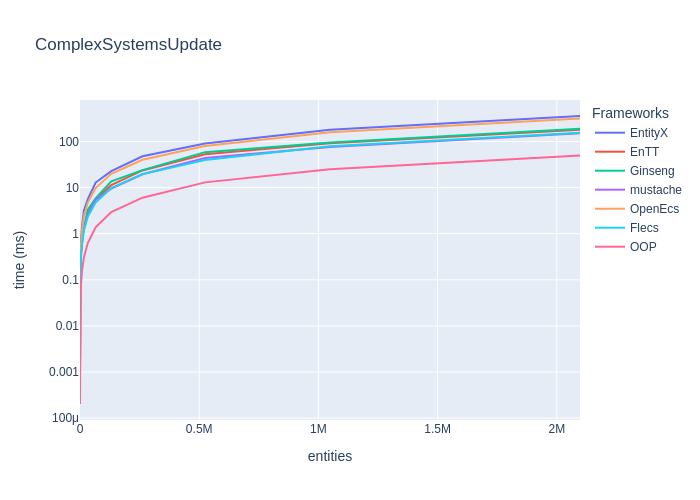
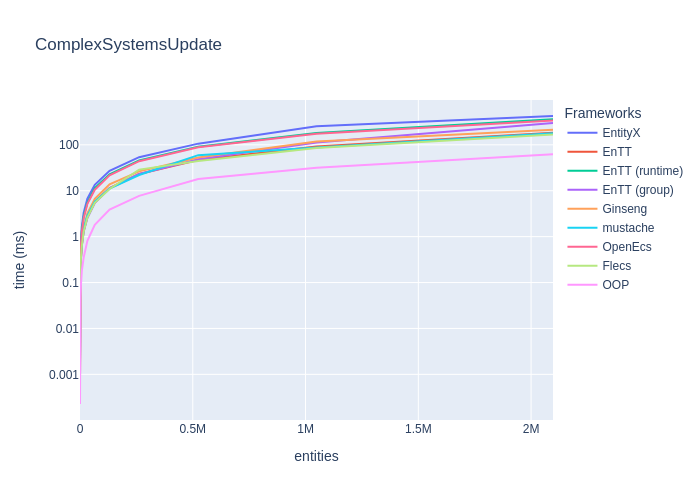
feat: update results and README.md

diff --git a/benchmark/benchmarks/entt-more/EnttRuntimeBenchmark.cpp b/benchmark/benchmarks/entt-more/EnttRuntimeBenchmark.cpp
@@ -1,12 +1,11 @@
-#include "EnttBenchmark.h"
+#include "EnttRuntimeBenchmark.h"
 
-static ecs::benchmarks::entt::EnttBenchmark entt_benchmark({
+static ecs::benchmarks::entt::EnttRuntimeBenchmark entt_runtime_benchmark({
                                                                    .add_more_complex_system = true,
                                                                    .version = ENTT_VERSION
                                                            });
 
-
 static void BM_entt_ComplexSystemsUpdate(benchmark::State &state) {
-    entt_benchmark.BM_SystemsUpdate(state);
+    entt_runtime_benchmark.BM_SystemsUpdate(state);
 }
 BENCHMARK(BM_entt_ComplexSystemsUpdate)->Apply(ecs::benchmarks::base::BEDefaultArguments);

diff --git a/benchmark/benchmarks/entt-more/EnttGroupBenchmark.cpp b/benchmark/benchmarks/entt-more/EnttGroupBenchmark.cpp
@@ -1,12 +1,11 @@
-#include "EnttBenchmark.h"
+#include "EnttGroupBenchmark.h"
 
-static ecs::benchmarks::entt::EnttBenchmark entt_benchmark({
+static ecs::benchmarks::entt::EnttGroupBenchmark entt_group_benchmark({
                                                                    .add_more_complex_system = true,
                                                                    .version = ENTT_VERSION
                                                            });
 
-
 static void BM_entt_ComplexSystemsUpdate(benchmark::State &state) {
-    entt_benchmark.BM_SystemsUpdate(state);
+    entt_group_benchmark.BM_SystemsUpdate(state);
 }
 BENCHMARK(BM_entt_ComplexSystemsUpdate)->Apply(ecs::benchmarks::base::BEDefaultArguments);

diff --git a/benchmark/benchmarks/mustache-more/MustacheBenchmark.cpp b/benchmark/benchmarks/mustache-more/MustacheBenchmark.cpp
@@ -2,7 +2,7 @@
 
 static ecs::benchmarks::mustache::MustacheBenchmark mustache_benchmark({
                                                                                .add_more_complex_system = true,
-                                                                               .version{},
+                                                                               .version = std::nullopt,
                                                                        });
 
 static void BM_mustache_ComplexSystemsUpdate(benchmark::State &state) {

diff --git a/benchmark/benchmarks/ginseng-more/GinsengBenchmark.cpp b/benchmark/benchmarks/ginseng-more/GinsengBenchmark.cpp
@@ -2,7 +2,7 @@
 
 static ecs::benchmarks::ginseng::GinsengBenchmark ginseng_benchmark({
                                                                             .add_more_complex_system = true,
-                                                                            .version{},
+                                                                            .version = std::nullopt,
                                                                     });
 
 static void BM_ginseng_ComplexSystemsUpdate(benchmark::State &state) {

diff --git a/benchmark/benchmarks/flecs-more/FlecsBenchmark.cpp b/benchmark/benchmarks/flecs-more/FlecsBenchmark.cpp
@@ -2,7 +2,7 @@
 
 static ecs::benchmarks::flecs::FlecsBenchmark flecs_benchmark ({
                                                                        .add_more_complex_system = true,
-                                                                       .version{},
+                                                                       .version = std::nullopt,
                                                                });
 
 static void BM_flecs_ComplexSystemsUpdate(benchmark::State &state) {

diff --git a/benchmark/benchmarks/openecs-more/OpenECSBenchmark.cpp b/benchmark/benchmarks/openecs-more/OpenECSBenchmark.cpp
@@ -2,7 +2,7 @@
 
 static ecs::benchmarks::openecs::OpenECSBenchmark openecs_benchmark({
                                                                             .add_more_complex_system = true,
-                                                                            .version{},
+                                                                            .version = std::nullopt,
                                                                     });
 
 

diff --git a/benchmark/benchmarks/entt-more/EnttRuntimeBenchmark.h b/benchmark/benchmarks/entt-more/EnttRuntimeBenchmark.h
@@ -11,7 +11,7 @@
 namespace ecs::benchmarks::entt {
 
     class EnttRuntimeBenchmark final
-            : public ecs::benchmarks::base::ESCBenchmark<"entt", EnttRuntimeApplication, entities::EntityFactory> {
+            : public ecs::benchmarks::base::ESCBenchmark<"entt (runtime)", EnttRuntimeApplication, entities::EntityFactory> {
     public:
         EnttRuntimeBenchmark() = default;
 

diff --git a/benchmark/benchmarks/entt-more/EnttGroupBenchmark.h b/benchmark/benchmarks/entt-more/EnttGroupBenchmark.h
@@ -11,7 +11,7 @@
 namespace ecs::benchmarks::entt {
 
     class EnttGroupBenchmark final
-            : public ecs::benchmarks::base::ESCBenchmark<"entt", EnttGroupApplication, entities::EntityFactory> {
+            : public ecs::benchmarks::base::ESCBenchmark<"entt (group)", EnttGroupApplication, entities::EntityFactory> {
     public:
         EnttGroupBenchmark() = default;
 

diff --git a/README.md b/README.md
@@ -206,15 +206,21 @@ _(lower is faster)_
 ![ComplexSystemsUpdate Plot](img/ComplexSystemsUpdate.png)  
 _(lower is faster)_
 
-|                                      | EntityX   | EnTT    | Ginseng   | mustache   | OpenEcs   | Flecs   | _OOP_     |
-|:-------------------------------------|:----------|:--------|:----------|:-----------|:----------|:--------|:--------|
-| Update   16K entities with 3 Systems | 0.0032s   | 0.0013s | 0.0014s   | 0.0014s    | 0.0024s   | **0.0012s** | _**0.0003s**_ |
-| Update   65K entities with 3 Systems | 0.0129s   | 0.0056s | 0.0059s   | 0.0055s    | 0.0098s   | **0.0047s** | _**0.0014s**_ |
-| Update  262K entities with 3 Systems | 0.0479s   | 0.0236s | 0.0240s   | 0.0195s    | 0.0402s   | **0.0197s** | _**0.0061s**_ |
-| Update  524K entities with 3 Systems | 0.0909s   | 0.0527s | 0.0589s   | 0.0439s    | 0.0803s   | **0.0399s** | _**0.0130s**_ |
-| Update    1M entities with 3 Systems | 0.1805s   | 0.0922s | 0.0958s   | 0.0761s    | 0.1597s   | **0.0786s** | _**0.0250s**_ |
-| Update    2M entities with 3 Systems | 0.3582s   | 0.1800s | 0.1898s   | 0.1507s    | 0.3175s   | **0.1561s** | _**0.0500s**_ |
+|                                      | EntityX   | EnTT    | EnTT (runtime)\* | EnTT (group)\** | Ginseng   | mustache   | OpenEcs   | Flecs   | _OOP_     |
+|:-------------------------------------|:----------|:--------|:-----------------|:----------------|:----------|:-----------|:----------|:--------|:--------|
+| Update   16K entities with 3 Systems | 0.0033s   | **0.0013s** | 0.0027s          | **0.0013s**     | 0.0015s   | 0.0015s    | 0.0025s   | **0.0013s** | _**0.0004s**_ |
+| Update   65K entities with 3 Systems | 0.0135s   | 0.0057s | 0.0113s          | **0.0054s**     | 0.0066s   | 0.0058s    | 0.0105s   | 0.0055s | _**0.0018s**_ |
+| Update  262K entities with 3 Systems | 0.0538s   | 0.0232s | 0.0456s          | **0.0231s**     | 0.0264s   | 0.0220s    | 0.0440s   | 0.0288s | _**0.0077s**_ |
+| Update  524K entities with 3 Systems | 0.1060s   | 0.0467s | 0.0912s          | 0.0487s         | 0.0528s   | 0.0596s    | 0.0883s   | **0.0445s** | _**0.0179s**_ |
+| Update    1M entities with 3 Systems | 0.2542s   | 0.0922s | 0.1811s          | 0.1125s         | 0.1177s   | 0.0871s    | 0.1743s   | **0.0849s** | _**0.0318s**_ |
+| Update    2M entities with 3 Systems | 0.4243s   | 0.1828s | 0.3591s          | 0.2974s         | 0.2129s   | 0.1783s    | 0.3397s   | **0.1671s** | _**0.0624s**_ |
 
+**Notes:**
+   * \* EnTT Framework iterate components via [runtime views](https://github.com/skypjack/entt/wiki/Crash-Course:-entity-component-system#runtime-views=)
+   * \** EnTT Framework iterate components via [groups](https://github.com/skypjack/entt/wiki/Crash-Course:-entity-component-system#groups=):
+      1. `DataSystem`: No Group, use normal `view`. _(Can't group a single component)_
+      2. `MovementSystem`: Partial-owning group, `registry.group<PositionComponent>(::entt::get<const DirectionComponent>)`
+      3. `MoreComplexSystem`: Full-owning group, `registry.group<PositionComponent, DirectionComponent, DataComponent>()`
 
 
 
